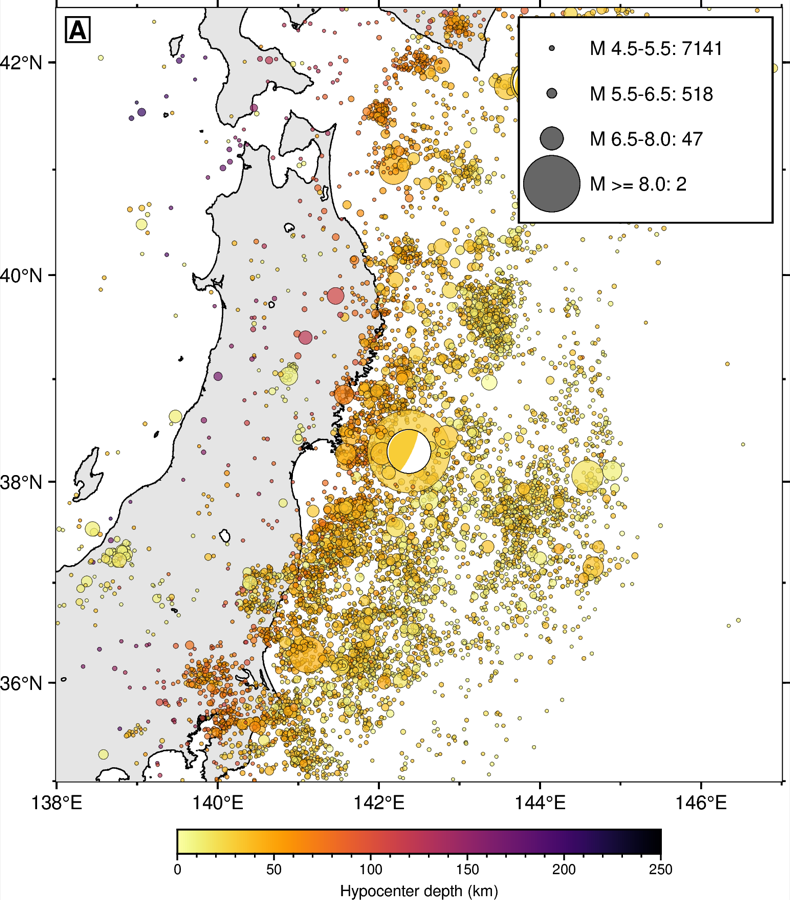
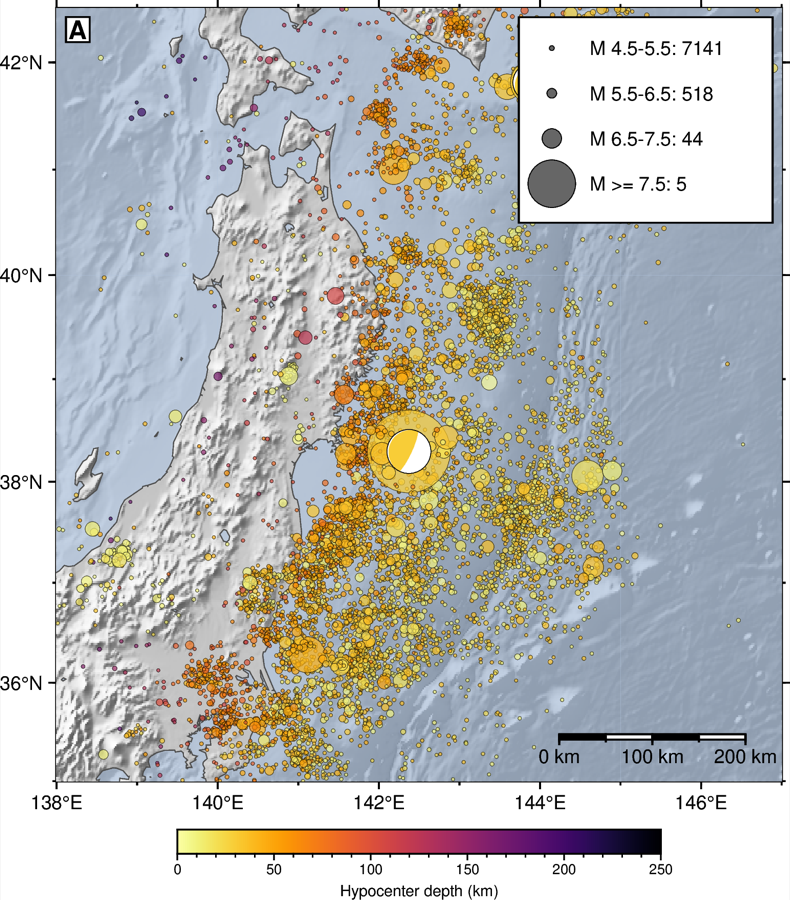
seismicity_map: shaded-relief base, auto-placed stats panel, scale bar
- grayscale relief background on by default (resolution auto from region span)
- magnitude-stats inset auto-placed in the corner with the FEWEST epicenters
  so it never covers the seismicity; scale bar dodges to the opposite corner
- optional fault-trace hook; magnitude bins auto-derived from the catalog

diff --git a/scripts/seismicity_map.py b/scripts/seismicity_map.py
@@ -1,10 +1,11 @@
 #!/usr/bin/env python
-"""Earthquake catalog map: epicenters colored by depth, sized by magnitude, with optional
-focal-mechanism beachballs.
+"""Earthquake catalog map: epicenters on shaded relief, colored by depth, sized by
+magnitude, with optional focal mechanisms, fault traces, an auto-placed
+magnitude-statistics panel and a map scale.
 
-House-style plain frame, square panel label, horizontal depth colorbar. Runs standalone
-with synthetic data; replace the `cat` DataFrame (lon, lat, depth, mag) and `mechs` list
-with your catalog / GCMT solutions.
+House-style plain frame, square panel label, horizontal depth colorbar. Runs
+standalone on the bundled REAL USGS Japan-trench catalog; replace `cat`
+(lon, lat, depth, mag) and `mechs` with your catalog / GCMT solutions.
 
 Usage:  python seismicity_map.py
 """
@@ -17,7 +18,7 @@ import pygmt
 
 sys.path.insert(0, os.path.dirname(os.path.abspath(__file__)))
 sys.path.insert(1, os.path.expanduser("~/.claude/skills/pygmt-plotting/scripts"))  # fallback when this file is copied elsewhere
-from style_presets import coast_colors, colorbar, panel_label, style
+from style_presets import colorbar, panel_label, style
 
 # ---------------- CONFIG ----------------
 STYLE = "house"                # house / journal / classic / minimal / presentation / dark
@@ -25,12 +26,17 @@ REGION = [138, 147, 35, 42.5]
 PROJECTION = "M12c"
 DEPTH_RANGE = [0, 250]         # km, for the CPT
 DEPTH_CMAP = "inferno"         # sequential; reversed below so shallow = bright
-SIZE_SCALE = 0.0025             # circle size = SIZE_SCALE * 2**mag (cm). TUNE THIS:
-                               # dense catalog (>200 events in a tight region) or Mmax>4.5
-                               # saturates the map -> drop it, add transparency=40,
-                               # thin the pen. Epicenters must stay individually resolvable.
+SIZE_SCALE = 0.0025            # circle size = SIZE_SCALE * 2**mag (cm). TUNE THIS:
+                               # dense catalog or Mmax>4.5 saturates -> drop it, add
+                               # transparency, thin the pen.
+RELIEF = True                  # grayscale shaded-relief background (context by default)
+RELIEF_RES = "auto"            # "auto": 03s <=1 deg span, 15s <=3 deg, else 01m
+FAULTS = None                  # optional GMT multi-segment fault-trace file (drawn w/ halo)
+MAG_CLASSES = None             # stats-panel bins; None = auto from catalog magnitudes
+STATS_INSET = True             # magnitude-class count panel, auto-placed in the EMPTIEST
+                               # corner so it never covers the seismicity (QC hard rule)
+SCALE_BAR = True               # map scale, bottom-right (moves to BL if stats live at BR)
 PANEL = "A"
-STATS_INSET = True             # ex009-style magnitude-class count panel (top-right)
 OUT = "seismicity_map.png"
 # ----------------------------------------
 
@@ -50,10 +56,39 @@ mechs = pd.DataFrame({
     "magnitude": big.mag.values,
 })
 
+
+def emptiest_corner(df, region):
+    """Corner quadrant (as a GMT j-code) holding the fewest epicenters."""
+    xm = (region[0] + region[1]) / 2
+    ym = (region[2] + region[3]) / 2
+    counts = {
+        "TL": ((df.lon < xm) & (df.lat >= ym)).sum(),
+        "TR": ((df.lon >= xm) & (df.lat >= ym)).sum(),
+        "BL": ((df.lon < xm) & (df.lat < ym)).sum(),
+        "BR": ((df.lon >= xm) & (df.lat < ym)).sum(),
+    }
+    counts.pop("TL", None)   # TL belongs to the panel label
+    return min(counts, key=counts.get)
+
+
 fig = pygmt.Figure()
 with style(STYLE):
     fig.basemap(region=REGION, projection=PROJECTION, frame=["WSne", "xaf", "yaf"])
-    fig.coast(**coast_colors(STYLE), resolution="f")
+    if RELIEF:
+        span = max(REGION[1] - REGION[0], REGION[3] - REGION[2])
+        res = RELIEF_RES if RELIEF_RES != "auto" else \
+            ("03s" if span <= 1 else "15s" if span <= 3 else "01m")
+        relief = pygmt.datasets.load_earth_relief(resolution=res, region=REGION)
+        shade = pygmt.grdgradient(grid=relief, azimuth=315, normalize="t1")
+        pygmt.makecpt(cmap="gray", series=[-9000, 3000])   # land in the light grays
+        fig.grdimage(grid=relief, shading=shade, cmap=True)
+        fig.coast(shorelines="0.4p,gray30", water="lightsteelblue@30", resolution="i")
+    else:
+        fig.coast(land="gray92", water="white", shorelines="0.5p,black", resolution="i")
+
+    if FAULTS:
+        fig.plot(data=FAULTS, pen="1.2p,white")
+        fig.plot(data=FAULTS, pen="0.7p,black")
 
     # epicenters: color = depth, size = magnitude
     pygmt.makecpt(cmap=DEPTH_CMAP, series=[DEPTH_RANGE[0], DEPTH_RANGE[1], 1], reverse=True)
@@ -62,26 +97,38 @@ with style(STYLE):
 
     # focal mechanisms (colored by depth via the same CPT). When spec is a DataFrame the
     # longitude/latitude/depth columns are read from it — do NOT also pass them as kwargs.
-    # Beachballs must READ over the epicenter cloud: keep scale >= 2x the largest epicenter
-    # circle, or plot them at offset positions with tie-lines (GOTCHAS 8.10).
+    # Beachballs must READ over the epicenter cloud (GOTCHAS 8.10).
     if len(mechs):
         fig.meca(spec=mechs, scale="0.4c", convention="aki", cmap=True)
 
-    # magnitude-class legend with counts (GMT China ex009 pattern). The inset
-    # draws NO axis annotations (suppressed anyway, GOTCHAS 8.1) — symbols+text only.
+    # magnitude-class counts (GMT China ex009 pattern), auto-placed in the corner with
+    # the FEWEST events so the panel never hides the seismicity.
+    stats_corner = None
     if STATS_INSET:
-        classes = [(4.5, 5.5), (5.5, 6.5), (6.5, 8.0), (8.0, 10.0)]
-        with fig.inset(position="jTR+w4.2c/3.4c+o0.15c", box="+gwhite+p0.8p,black"):
+        classes = MAG_CLASSES
+        if classes is None:
+            lo = float(np.floor(cat.mag.min() * 2) / 2)
+            classes = [(lo, lo + 1), (lo + 1, lo + 2), (lo + 2, lo + 3), (lo + 3, 10.0)]
+        stats_corner = emptiest_corner(cat, REGION)
+        with fig.inset(position=f"j{stats_corner}+w4.2c/3.4c+o0.15c",
+                       box="+gwhite+p0.8p,black"):
             for k, (m0, m1) in enumerate(classes):
                 n = int(((cat.mag >= m0) & (cat.mag < m1)).sum())
                 y = 0.85 - 0.22 * k
-                mrep = (m0 + min(m1, 9.1)) / 2
+                mrep = (m0 + min(m1, cat.mag.max())) / 2
                 fig.plot(x=[0.13], y=[y], style=f"c{SIZE_SCALE * 2 ** mrep:.3f}c",
                          fill="gray40", pen="0.3p,black",
                          region=[0, 1, 0, 1], projection="X4.2c/3.4c")
                 lab = f"M {m0:.1f}-{m1:.1f}" if m1 < 10 else f"M >= {m0:.1f}"
                 fig.text(x=0.28, y=y, text=f"{lab}: {n}", justify="ML",
                          font="9p,Helvetica,black")
+
+    if SCALE_BAR:
+        corner = "jBL" if stats_corner == "BR" else "jBR"
+        km = int(round((REGION[1] - REGION[0]) * 111 * 0.2 / 50) * 50) or 50
+        fig.basemap(map_scale=f"{corner}+w{km}k+f+u+o0.6c/0.6c"
+                              f"+c{np.mean(REGION[2:]):.0f}")
+
     panel_label(fig, PANEL, style_name=STYLE)
     colorbar(fig, "Hypocenter depth (km)", style_name=STYLE, width=8)
 
